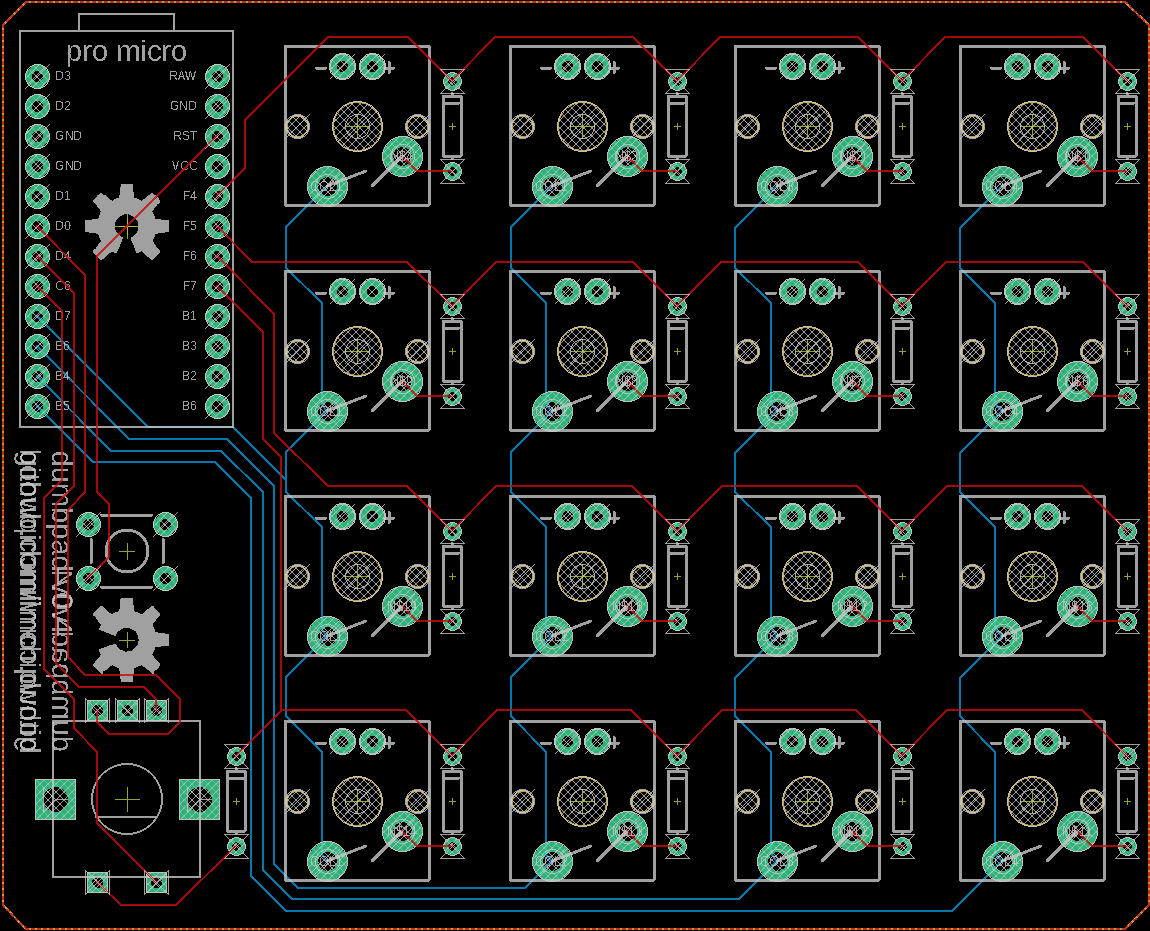
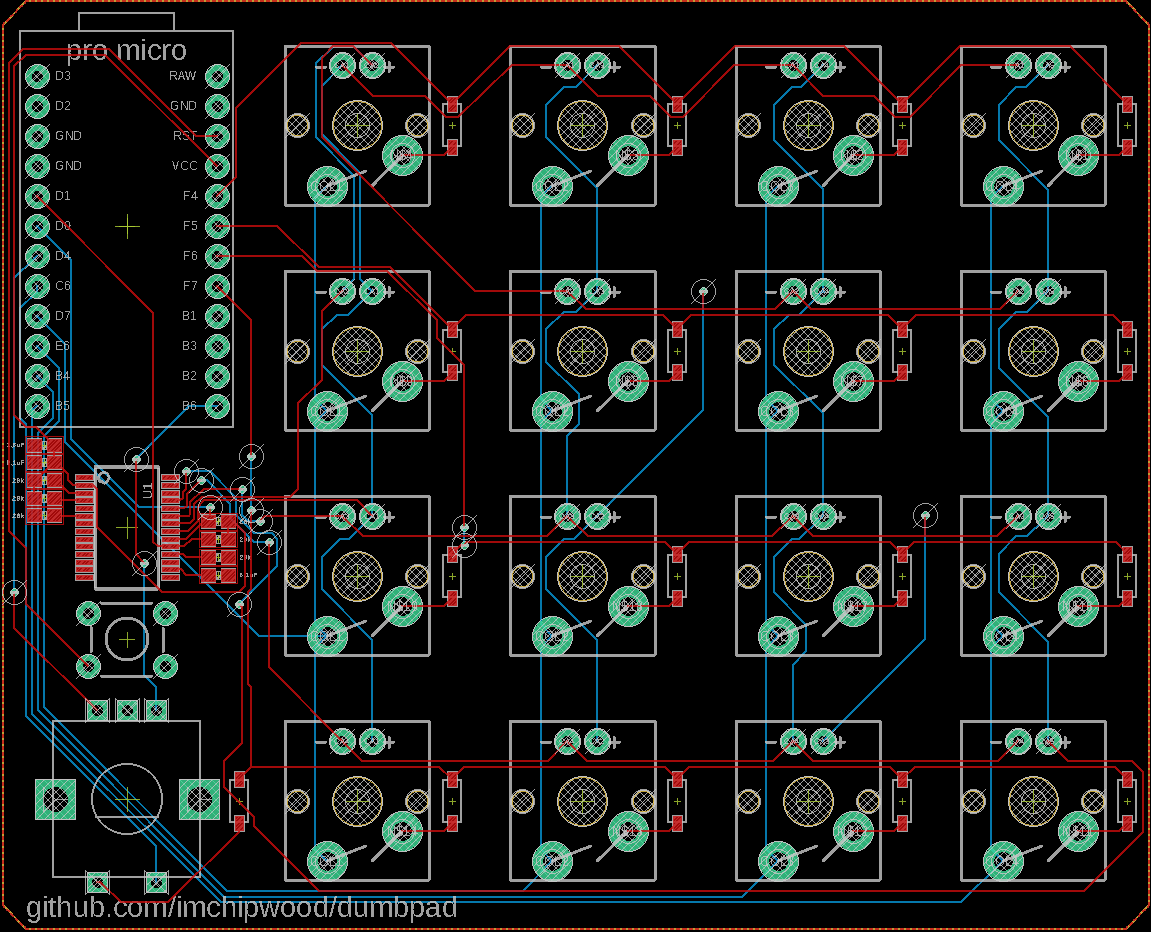
updated readme and screenshot

diff --git a/README.md b/README.md
@@ -9,10 +9,16 @@ The EC11 rotary encoder used has a push-button, which technically makes this a 1
 
 ## Parts
 * 16x Cherry-style mechanical switches
-* 17x 1n4148 diodes (thru hole)
+* 17x diodes (SOD-123 package)
+* 6x 20Kohm resistors (0603 package)
+* 2x 0.1uF capacitors (0603 package)
+* 1x 1.0uF capacitor (0603 package)
 * 1x Pro Micro ATmega32u4
 * 1x EC11 rotary encoder (7-pin)
-* (optional) 1x 6mm tactile switch (to reset MCU - not needed most of the time as QMK has a RESET keycode)
+* 1x IS31FL3731 I2C LED driver (SSOP package)
+* (optional) 1x 6mm tactile switch (to reset MCU - QMK reset keycode or bootmagic can be used instead)
 
 ## Making the PCB
 https://www.oshpark.com is the recommended service for creating PCBs. 3x PCBs is roughly $60 from them. Simply upload the .brd file to create the project and order.
+
+All capacitors, resistors, diodes, and the LED driver in this version are surface mount - it isn't too difficult to solder them by hand but reflow soldering is easy if you have an oven (making one out of an old toaster oven is pretty easy). Order a stencil through [OSH Stencils](https://www.oshstencils.com/) to make applying paste easier.
